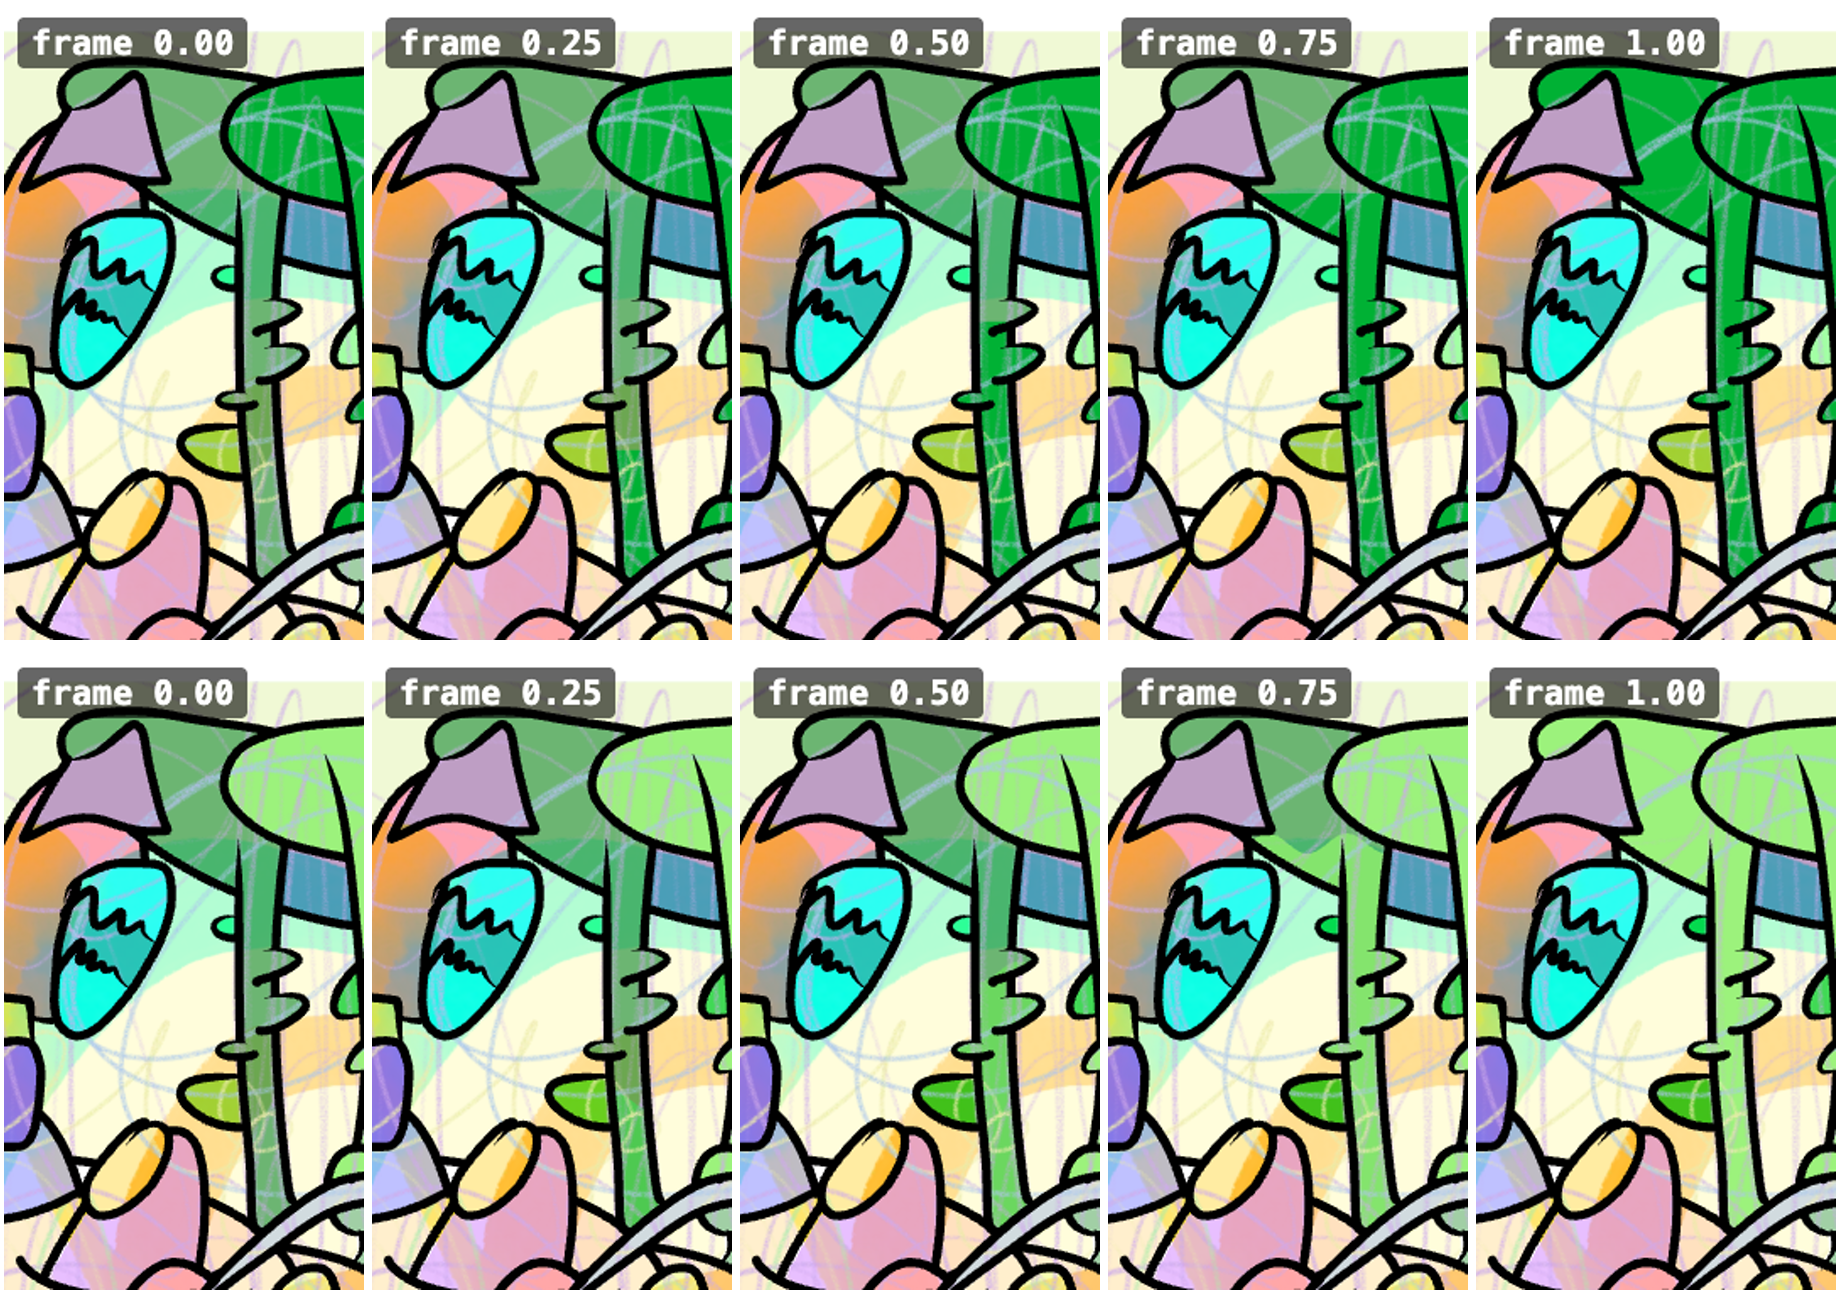
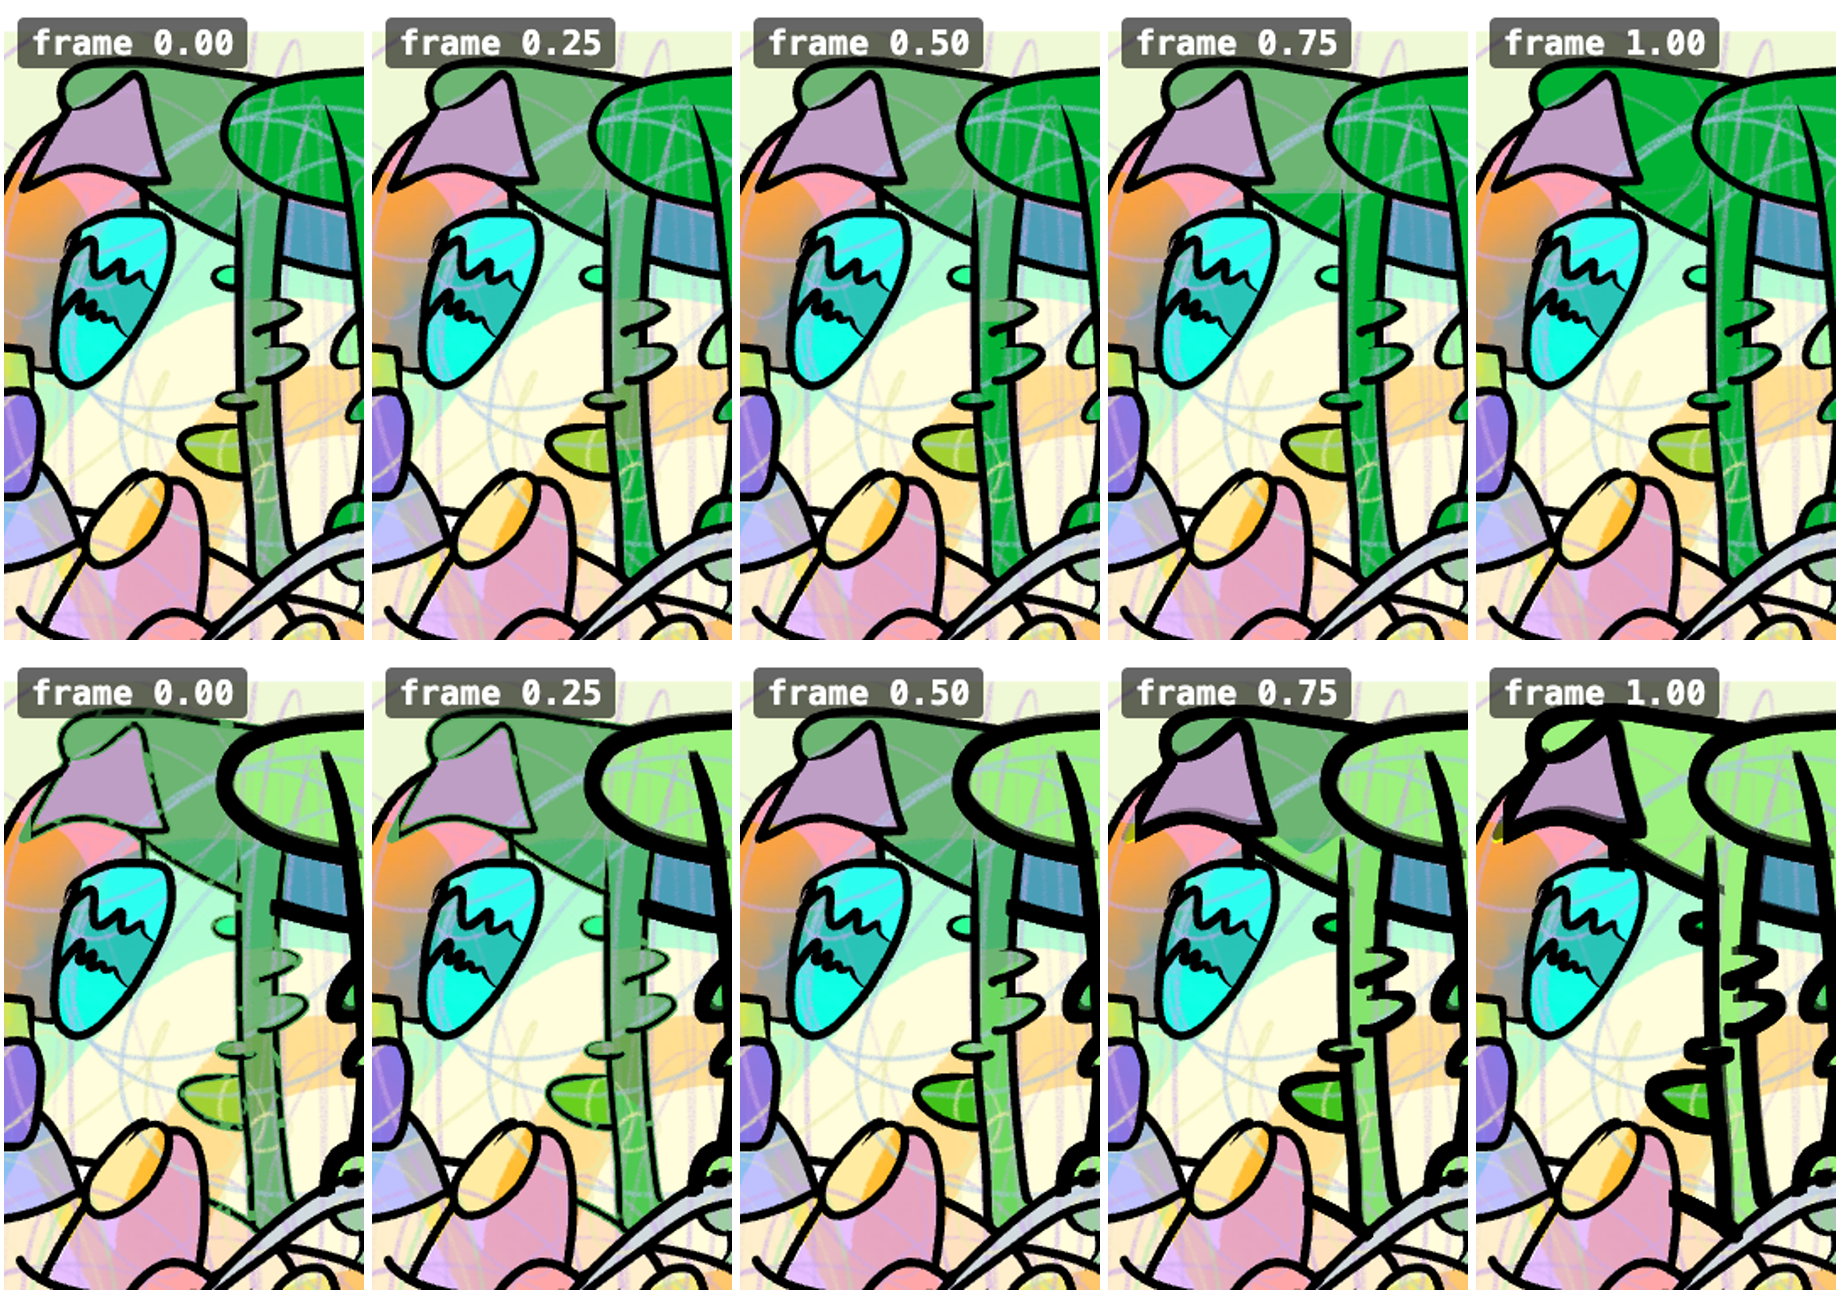
Animate the stalks' linework from less of itself to more of itself
A new line effect works on an object's own ink: at the first frame thinner and broken by noise gaps
like an unfinished sketch (with the object's colour underneath, since the painting's shapes stop at the
ink), exactly as painted at the middle, and bolder with a second hand-drawn pass of every stroke at the
last frame. Both stalk drawbars use it with the rising sap.

Verified by rendering frames 0 to 1 for both stalks in Chrome: thin broken lines at 0, the original at
0.5, bold re-inked lines at 1; the before/after comparisons are in docs/objects; pnpm build passes.

diff --git a/web/src/effects.ts b/web/src/effects.ts
@@ -17,6 +17,9 @@
 //             `turn` turns the revealed colour's hue (degrees by the last frame) as it advances, `toward` moves every
 //             shape's revealed colour to one hue instead, `color` moves it to one exact colour
 //   scribble  pencil loops drawn in, clipped to the shape, in the painting's own scribble style (`count` strokes)
+//   line      the object's linework from less of itself to more of itself: at u = 0 thinner, lighter and broken by
+//             small gaps like an unfinished sketch; at 0.5 exactly as painted; at 1 bolder, with a second hand-drawn
+//             pass of every stroke just beside the first (thinning, gaps and boldness scale with `amount`)
 //   boil      the outline redrawn: the lines bend further from their own shape as u grows, a new drawing every
 //             1/12 of the way, so dragging makes them writhe and holding keeps them still; the original at 0
 //   swell     the object grows about its centre, 8% at amount 1 (negative shrinks)
@@ -37,6 +40,12 @@ const HUE_DEG = 60;
 const GLOW_OPACITY = 0.6;
 /** fill: the revealed copy is the shape's own colour glowing this much (vivid, lighter for mid and dark colours). */
 const FILL_GLOW = 1.4;
+/**
+ * line: at amount 1, how much thinner the strokes get at the start (canvas px eroded from each side; the painting's
+ * lines are 14 to 40 px wide), how much of them the gaps take, how much bolder they get at the end, and the second pass:
+ * its opacity, how far beside the first it sits, and how differently it is drawn (px of bending).
+ */
+const LINE_THIN_PX = 4, LINE_GAPS = 0.3, LINE_BOLD_PX = 5, ECHO_OPACITY = 0.6, ECHO_OFFSET_PX = 9, ECHO_BEND_PX = 10;
 /** boil: how far lines bend at u = 1 (canvas px), and how many distinct drawings there are from 0 to 1. */
 const BOIL_PX = 12, BOIL_FRAMES = 12;
 /** Wavelengths of the bending field in canvas px: long enough that both edges of a stroke move together. */
@@ -89,6 +98,11 @@ interface Track {
   reveals: Reveal[];
   /** scribble */
   scribble?: Scribble;
+  /** line: the filter on the object's strokes, its knobs, and the second pass */
+  line?: {
+    paths: SVGPathElement[]; filterId: string; morph: SVGFEMorphologyElement; mask: SVGFEFuncAElement;
+    echo: SVGGElement; under: SVGGElement; written: string;
+  };
   /** swell, lean, spin, blink: the elements moved, and the centre and base point they move about */
   targets: SVGPathElement[];
   centre: [number, number];
@@ -223,6 +237,62 @@ export function mountEffects(art: Art, host: WebSynthlandHost, objects: Map<stri
         case 'boil':
           tr.ink = obj.ink.filter((s) => art.ink.has(s));
           break;
+        case 'line': {
+          const paths = obj.ink.map((s) => art.ink.get(s)).filter((p): p is SVGPathElement => !!p);
+          if (!paths.length) break;
+          // One filter for the object's strokes: erode or dilate, then a noise mask that opens gaps.
+          const filterId = `ts-line-${uid++}`;
+          const f = document.createElementNS(SVG, 'filter');
+          f.id = filterId;
+          f.setAttribute('filterUnits', 'userSpaceOnUse');
+          f.setAttribute('x', String(bx - 60)); f.setAttribute('y', String(by - 60));
+          f.setAttribute('width', String(bw + 120)); f.setAttribute('height', String(bh + 120));
+          const morph = document.createElementNS(SVG, 'feMorphology');
+          morph.setAttribute('in', 'SourceGraphic'); morph.setAttribute('operator', 'erode'); morph.setAttribute('radius', '0');
+          morph.setAttribute('result', 'weight');
+          const noise = document.createElementNS(SVG, 'feTurbulence');
+          noise.setAttribute('type', 'fractalNoise'); noise.setAttribute('baseFrequency', '0.03'); noise.setAttribute('numOctaves', '2');
+          noise.setAttribute('seed', String(1 + Math.floor(rand() * 999))); noise.setAttribute('result', 'noise');
+          const ct = document.createElementNS(SVG, 'feComponentTransfer');
+          ct.setAttribute('in', 'noise'); ct.setAttribute('result', 'mask');
+          const fa = document.createElementNS(SVG, 'feFuncA');
+          fa.setAttribute('type', 'linear'); fa.setAttribute('slope', '0'); fa.setAttribute('intercept', '1');
+          ct.append(fa);
+          const comp = document.createElementNS(SVG, 'feComposite');
+          comp.setAttribute('in', 'weight'); comp.setAttribute('in2', 'mask'); comp.setAttribute('operator', 'in');
+          f.append(morph, noise, ct, comp);
+          stack.defs.append(f);
+          L.added.push(f);
+          // The second pass: every stroke redrawn a little differently, beside the first, hidden until past 0.5.
+          const echo = document.createElementNS(SVG, 'g');
+          echo.setAttribute('fill', '#000');
+          echo.setAttribute('opacity', '0');
+          echo.style.pointerEvents = 'none';
+          const er = rng(`${binding.id}#echo`);
+          for (const p of paths) {
+            const e = document.createElementNS(SVG, 'path');
+            e.setAttribute('d', wobblePath(p.getAttribute('d') ?? '', ECHO_BEND_PX * Math.abs(spec.amount), er));
+            echo.append(e);
+          }
+          stack.ink.append(echo);
+          L.added.push(echo);
+          // Under the strokes, the object's own colour: the painting's shapes stop at the ink, so where a line thins
+          // or breaks this shows instead of white paper. Only below the middle frame.
+          const bodyId = obj.roles.get('body')?.[0] ?? obj.fills[0] ?? '';
+          const under = document.createElementNS(SVG, 'g');
+          under.setAttribute('fill', fillParts.get(bodyId)?.fill ?? '#888888');
+          under.setAttribute('opacity', '0');
+          under.style.pointerEvents = 'none';
+          for (const p of paths) {
+            const c = document.createElementNS(SVG, 'path');
+            c.setAttribute('d', p.getAttribute('d') ?? '');
+            under.append(c);
+          }
+          stack.ink.before(under);
+          L.added.push(under);
+          tr.line = { paths, filterId, morph, mask: fa, echo, under, written: '' };
+          break;
+        }
         case 'fill':
           for (const id of ids) {
             const orig = art.fills.get(id), part = fillParts.get(id);
@@ -322,6 +392,9 @@ export function mountEffects(art: Art, host: WebSynthlandHost, objects: Map<stri
     return L;
   };
   const retire = (L: Live): void => {
+    for (const tr of L.tracks) if (tr.line) for (const p of tr.line.paths) {
+      if (p.getAttribute('filter') === `url(#${tr.line.filterId})`) p.removeAttribute('filter');
+    }
     for (const el of L.added) el.remove();
     L.added = [];
   };
@@ -428,6 +501,48 @@ export function mountEffects(art: Art, host: WebSynthlandHost, objects: Map<stri
       if (parts.has(el)) continue;
       el.removeAttribute('transform');
       transformed.delete(el);
+    }
+
+    // Line: one filter per track on its object's strokes; below the middle thinner and gappier, above it bolder with
+    // the second pass showing. At exactly 0.5 the strokes are left as painted (no filter at all).
+    const filtered = new Map<SVGPathElement, string>();
+    for (const L of live) for (const tr of L.tracks) {
+      const ln = tr.line;
+      if (!ln) continue;
+      const u = local(tr, L.shown);
+      const a = Math.abs(tr.spec.amount);
+      const less = Math.max(0, 1 - 2 * u), more = Math.max(0, 2 * u - 1);
+      const key = `${less.toFixed(3)}/${more.toFixed(3)}`;
+      if (key !== ln.written) {
+        ln.written = key;
+        if (less > 0) {
+          ln.morph.setAttribute('operator', 'erode');
+          ln.morph.setAttribute('radius', (LINE_THIN_PX * a * less).toFixed(2));
+          // Noise alpha sits around 0.5; this keeps coverage full at less = 0 and opens gaps over LINE_GAPS of it at 1.
+          const t = 0.5 - 0.3 + LINE_GAPS * a * less * 0.6;
+          ln.mask.setAttribute('slope', '12');
+          ln.mask.setAttribute('intercept', (-12 * t + 0.5).toFixed(3));
+        } else {
+          ln.morph.setAttribute('operator', 'dilate');
+          ln.morph.setAttribute('radius', (LINE_BOLD_PX * a * more).toFixed(2));
+          ln.mask.setAttribute('slope', '0');
+          ln.mask.setAttribute('intercept', '1');
+        }
+        ln.under.setAttribute('opacity', less > 0 ? '1' : '0');
+        ln.echo.setAttribute('opacity', (ECHO_OPACITY * Math.min(1, a) * more).toFixed(3));
+        const off = ECHO_OFFSET_PX * a * more;
+        ln.echo.setAttribute('transform', `translate(${off.toFixed(1)} ${(-off * 0.7).toFixed(1)})`);
+      }
+      if (less > 0 || more > 0) for (const p of ln.paths) filtered.set(p, ln.filterId);
+    }
+    for (const L of live) for (const tr of L.tracks) {
+      if (!tr.line) continue;
+      for (const p of tr.line.paths) {
+        const want = filtered.get(p);
+        const has = p.getAttribute('filter');
+        if (want && has !== `url(#${want})`) p.setAttribute('filter', `url(#${want})`);
+        else if (!want && has) p.removeAttribute('filter');
+      }
     }
 
     // Boil: per stroke, the depth is the largest any track asks for; the drawing is the one for that depth.

diff --git a/web/src/mapping.ts b/web/src/mapping.ts
@@ -31,8 +31,8 @@ export interface RegionEntry extends Control {
   region: RegionShape;
 }
 
-export type EffectKind = 'glow' | 'hue' | 'fill' | 'scribble' | 'boil' | 'swell' | 'lean' | 'spin' | 'blink';
-export const EFFECTS: readonly EffectKind[] = ['glow', 'hue', 'fill', 'scribble', 'boil', 'swell', 'lean', 'spin', 'blink'];
+export type EffectKind = 'glow' | 'hue' | 'fill' | 'scribble' | 'line' | 'boil' | 'swell' | 'lean' | 'spin' | 'blink';
+export const EFFECTS: readonly EffectKind[] = ['glow', 'hue', 'fill', 'scribble', 'line', 'boil', 'swell', 'lean', 'spin', 'blink'];
 /** Older names still read: pulse and wobble were free-running; as frames of the timeline they are swell and lean. */
 const EFFECT_ALIASES: Record<string, EffectKind> = { pulse: 'swell', wobble: 'lean' };
 export type FillFrom = 'bottom' | 'top' | 'left' | 'right';

diff --git a/PLAN.md b/PLAN.md
@@ -150,6 +150,7 @@ span (`web/src/effects.ts`):
 | `hue` | fills | the hue turned 60 degrees (negative turns the other way) | |
 | `fill` | fills | a vivid copy of the object fully revealed from an edge, one level across all its shapes, like a drawbar pulled out | `from`: bottom, top, left, right; `edge`: straight or wave (a hand-drawn surface that rolls as it moves); `turn` (degrees the colour turns as it advances), `toward` (a hue, OKLCH degrees, every shape's colour moves to) or `color` (an exact colour it moves to) |
 | `scribble` | fills | pencil loops in the painting's own scribble style, all drawn in, clipped to the shape | `count` (default 14) |
+| `line` | ink | the linework from less of itself to more of itself: at the first frame thinner (4 px eroded from each side) and broken by gaps like an unfinished sketch, the object's own colour showing where lines thin; exactly as painted at the middle; at the last frame bolder (5 px) with a second hand-drawn pass of every stroke beside the first | |
 | `boil` | ink | the outline redrawn, its lines bent up to 12 canvas px; a new drawing every 1/12 of the way, so dragging makes them writhe and holding keeps them still | |
 | `swell` | object | 8% larger about its centre (negative shrinks) | |
 | `lean` | object | leaning 10 degrees from its base (negative leans left) | |
@@ -179,7 +180,8 @@ surface climbs from the pyramid's base to its apex as Drive goes 0 to 1, both fa
 rises; the faces above the level warm from 20%; the outline starts to boil past 55%, easing in.
 **stalk-drawbar-16 and stalk-drawbar-513**, sap rising: a green sap with a wavy surface climbs each stalk with the
 drawbar, turning a luminous light green (#9cf27c) towards the top; each bud on the stalk (roles `bud-1`..) swells
-24% and glows just as the sap reaches its height.
+24% and glows just as the sap reaches its height; and the linework goes from thin broken sketch lines with the
+drawbar in, through the lines as painted at half way, to bold double-inked lines with it fully out (`line`).
 
 Fill ids (`f001`..) and ink ids (`i0001`..) come from the extractor and are stable as long as the PSD's drawing does
 not change; `?debug`'s parts mode (backquote) shows the id of the shape under the pointer. The parts table also

diff --git a/docs/mapping-proposal.md b/docs/mapping-proposal.md
@@ -8,8 +8,8 @@ the object shows the value but touching it does nothing (routing, tuning and lev
 | parameter | name | object | gesture | effects | lock |
 | --- | --- | --- | --- | --- | --- |
 | `amp.drive` | Drive | golden-pyramid | drag-x | fill 0.6 from bottom edge wave toward 65, glow 0.5 span [0.2, 1], boil 1.3 span [0.55, 1] ease in | locked |
-| `upper.db1` | Upper 16' | stalk-left | drag-y | fill 0.5 parts body from bottom edge wave color #9cf27c, swell 3 parts bud-1 span [0.21, 0.33] ease out, glow 0.8 parts bud-1 span [0.21, 0.33], swell 3 parts bud-2 span [0.55, 0.67] ease out, glow 0.8 parts bud-2 span [0.55, 0.67] |  |
-| `upper.db2` | Upper 5 1/3' | stalk-right | drag-y | fill 0.5 parts body from bottom edge wave color #9cf27c, swell 3 parts bud-1 span [0.34, 0.46] ease out, glow 0.8 parts bud-1 span [0.34, 0.46], swell 3 parts bud-2 span [0.37, 0.49] ease out, glow 0.8 parts bud-2 span [0.37, 0.49], swell 3 parts bud-3 span [0.61, 0.73] ease out, glow 0.8 parts bud-3 span [0.61, 0.73] |  |
+| `upper.db1` | Upper 16' | stalk-left | drag-y | fill 0.5 parts body from bottom edge wave color #9cf27c, swell 3 parts bud-1 span [0.21, 0.33] ease out, glow 0.8 parts bud-1 span [0.21, 0.33], swell 3 parts bud-2 span [0.55, 0.67] ease out, glow 0.8 parts bud-2 span [0.55, 0.67], line 1 |  |
+| `upper.db2` | Upper 5 1/3' | stalk-right | drag-y | fill 0.5 parts body from bottom edge wave color #9cf27c, swell 3 parts bud-1 span [0.34, 0.46] ease out, glow 0.8 parts bud-1 span [0.34, 0.46], swell 3 parts bud-2 span [0.37, 0.49] ease out, glow 0.8 parts bud-2 span [0.37, 0.49], swell 3 parts bud-3 span [0.61, 0.73] ease out, glow 0.8 parts bud-3 span [0.61, 0.73], line 1 |  |
 | `leslie.speed` | Rotor Speed | spiral-curl | tap | spin 1 |  |
 | `amp.expression` | Expression | pyramid-worm | drag-y | swell 1, glow 0.4 |  |
 | `vib.upper` | Vibrato Upper | stream | tap | lean 1, hue 0.3 parts water |  |
